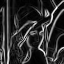
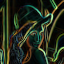
improve filter panel ui

diff --git a/src/main/kotlin/sirgl/graphics/filter/KernelFilter.kt b/src/main/kotlin/sirgl/graphics/filter/KernelFilter.kt
@@ -49,7 +49,7 @@ abstract class MatrixFilter(private val kernelDataObservable: Observable<KernelD
         }
         val maxValue = max(max(normalizationBufferR.max()!!, normalizationBufferG.max()!!), normalizationBufferB.max()!!)
         if (maxValue > 255.0f) {
-            // Probably here we can use norm ratio
+            // TODO Probably here we can use norm ratio
             val normValue = 255.0f / maxValue
             normalize(normValue, normalizationBufferR, normalizationBufferG, normalizationBufferB, extendedWidth, extendedHeight)
         }
@@ -207,66 +207,6 @@ abstract class MatrixFilter(private val kernelDataObservable: Observable<KernelD
             }
         }
     }
-
-    private fun fillInternalImage(
-            extendedWidth: Int,
-            extendedHeight: Int,
-            singleEdgeExt: Int,
-            srcWidth: Int,
-            srcHeight: Int,
-            src: BufferedImage
-    ) {
-        for (y in (0 until extendedHeight)) {
-            for (x in (0 until extendedWidth)) {
-                val inLeftEdge = x in (0 until singleEdgeExt)
-                val inRightEdge = x in (extendedWidth - singleEdgeExt until extendedWidth)
-                val inUpEdge = y in (0 until singleEdgeExt)
-                val inDownEdge = y in (extendedHeight - singleEdgeExt until extendedHeight)
-                var srcX: Int
-                var srcY: Int
-                when {
-                    inLeftEdge && inUpEdge -> {
-                        srcX = 0
-                        srcY = 0
-                    }
-                    inRightEdge && inUpEdge -> {
-                        srcX = srcWidth - 1
-                        srcY = 0
-                    }
-                    inRightEdge && inDownEdge -> {
-                        srcX = srcWidth - 1
-                        srcY = srcHeight - 1
-                    }
-                    inLeftEdge && inDownEdge -> {
-                        srcX = 0
-                        srcY = srcHeight - 1
-                    }
-                    inLeftEdge -> {
-                        srcX = 0
-                        srcY = y - singleEdgeExt
-                    }
-                    inUpEdge -> {
-                        srcX = x - singleEdgeExt
-                        srcY = 0
-                    }
-                    inDownEdge -> {
-                        srcX = x - singleEdgeExt
-                        srcY = srcHeight - 1
-                    }
-                    inRightEdge -> {
-                        srcX = srcWidth - 1
-                        srcY = y - singleEdgeExt
-                    }
-                    else -> {
-                        srcX = x - singleEdgeExt
-                        srcY = y - singleEdgeExt
-                    }
-                }
-                extendedImage.setRGB(x, y, src.getRGB(srcX, srcY))
-            }
-        }
-    }
-
 
 }
 

diff --git a/src/main/kotlin/sirgl/graphics/ui/filter/AppliedFilterList.kt b/src/main/kotlin/sirgl/graphics/ui/filter/AppliedFilterList.kt
@@ -1,0 +1,53 @@
+package sirgl.graphics.ui.filter
+
+import sirgl.graphics.components.vBox
+import sirgl.graphics.filter.FilterModel
+import sirgl.graphics.observable.Observable
+import sirgl.graphics.observable.SimpleObservable
+import java.awt.GridBagConstraints
+import java.awt.GridBagLayout
+import javax.swing.*
+
+sealed class ListEvt
+
+class ClearListEvt : ListEvt()
+class ListElementSelectedEvt(val model: FilterModel) : ListEvt()
+
+class AppliedFilterList(filtersList: Observable<MutableList<FilterModel>>) : JPanel() {
+    val listObservable: Observable<ListEvt> = SimpleObservable<ListEvt>(null)
+    val list = JList<String>()
+    val clearButton = JButton("Clear")
+
+    init {
+        layout = GridBagLayout()
+        val c = GridBagConstraints()
+        c.weightx = 1.0
+        c.weighty = 8.0
+        c.gridx = 0
+        c.gridy = 0
+        c.fill = GridBagConstraints.BOTH
+
+        filtersList.subscribe {
+            val names = it?.map { it.name }?.toTypedArray() ?: emptyArray()
+            list.setListData(names)
+        }
+
+        list.addListSelectionListener {
+            val selectionModel = it.source as JList<String>
+            val index = selectionModel.minSelectionIndex
+            if (index < 0) return@addListSelectionListener
+            val filterList = filtersList.value ?: return@addListSelectionListener
+            val filter = filterList[index]
+            listObservable.value = ListElementSelectedEvt(filter)
+        }
+
+        add(JScrollPane(list), c)
+
+        c.weighty = 1.0
+        c.gridy = 1
+        clearButton.addActionListener {
+            listObservable.value = ClearListEvt()
+        }
+        add(vBox { add(clearButton) }, c)
+    }
+}

diff --git a/src/main/kotlin/sirgl/graphics/ui/filter/FilterPreviewList.kt b/src/main/kotlin/sirgl/graphics/ui/filter/FilterPreviewList.kt
@@ -1,0 +1,41 @@
+package sirgl.graphics.ui.filter
+
+import sirgl.graphics.components.SplitPanel
+import sirgl.graphics.filter.FilterModelFactory
+import sirgl.graphics.observable.Observable
+import sirgl.graphics.observable.SimpleObservable
+import java.awt.Component
+import java.awt.event.MouseAdapter
+import java.awt.event.MouseEvent
+import javax.swing.*
+
+
+class FilterPreviewList(filterModelFactories: List<FilterModelFactory<*>>) : JPanel() {
+    private val list = JList<FilterModelFactory<*>>(filterModelFactories.toTypedArray())
+    val selectedFilter: Observable<FilterModelFactory<*>> = SimpleObservable<FilterModelFactory<*>>(null)
+
+    init {
+        layout = BoxLayout(this, BoxLayout.Y_AXIS)
+        list.cellRenderer = object: ListCellRenderer<FilterModelFactory<*>?> {
+            override fun getListCellRendererComponent(
+                    list: JList<out FilterModelFactory<*>?>,
+                    value: FilterModelFactory<*>?,
+                    index: Int,
+                    isSelected: Boolean,
+                    cellHasFocus: Boolean
+            ): Component {
+                value ?: return JLabel()
+                val label = JLabel(value.icon)
+                return SplitPanel(label, JLabel(value.name), 1.0, 5.0)
+            }
+        }
+        list.addMouseListener(object: MouseAdapter() {
+            override fun mouseClicked(e: MouseEvent) {
+                val index = list.locationToIndex(e.point)
+                val fileModelFactory = list.model.getElementAt(index)
+                selectedFilter.value = fileModelFactory
+            }
+        })
+        add(JScrollPane(list))
+    }
+}

diff --git a/src/main/kotlin/sirgl/graphics/ui/filter/FilterPanel.kt b/src/main/kotlin/sirgl/graphics/ui/filter/FilterPanel.kt
@@ -1,0 +1,47 @@
+package sirgl.graphics.ui.filter
+
+import sirgl.graphics.core.App
+import sirgl.graphics.filter.filterModelFactories
+import java.awt.GridBagConstraints
+import java.awt.GridBagLayout
+import javax.swing.JPanel
+
+
+class FilterPanel(app: App) : JPanel() {
+
+    init {
+        val filtersObservable = app.filtersObservable
+
+        val appliedFilterList = AppliedFilterList(filtersObservable)
+        appliedFilterList.listObservable.subscribe {
+            when (it) {
+                is ClearListEvt -> app.clearFilters()
+                is ListElementSelectedEvt -> app.selectedFilterPanel.value = it.model.panel
+            }
+        }
+
+        val filterPreviewList = FilterPreviewList(filterModelFactories)
+        filterPreviewList.selectedFilter.subscribe {
+            app.addFilter(it?.create(app) ?: return@subscribe)
+        }
+
+        val currentFilterSettingPanel = CurrentFilterSettingPanel(app.selectedFilterPanel)
+
+        layout = GridBagLayout()
+        val c = GridBagConstraints()
+        c.weightx = 1.0
+        c.weighty = 3.0
+        c.gridx = 0
+        c.gridy = 0
+        c.fill = GridBagConstraints.BOTH
+        add(appliedFilterList, c)
+
+        c.gridy = 1
+        c.weighty = 3.0
+        add(filterPreviewList, c)
+
+        c.gridy = 2
+        c.weighty = 3.0
+        add(currentFilterSettingPanel, c)
+    }
+}

diff --git a/src/main/kotlin/sirgl/graphics/ui/filter/CurrentFilterSettingPanel.kt b/src/main/kotlin/sirgl/graphics/ui/filter/CurrentFilterSettingPanel.kt
@@ -1,0 +1,38 @@
+package sirgl.graphics.ui.filter
+
+import sirgl.graphics.observable.Observable
+import sirgl.graphics.ui.Invisible
+import java.awt.Dimension
+import javax.swing.JPanel
+import javax.swing.JScrollPane
+
+class CurrentFilterSettingPanel(selectedFilterPanel: Observable<JPanel>) : JPanel() {
+    private val holder = JPanel()
+    private val scrollPane = JScrollPane(holder)
+
+    init {
+        scrollPane.isVisible = false
+        selectedFilterPanel.subscribe {
+            holder.removeAll()
+            if (it == null) {
+                scrollPane.isVisible = false
+                holder.invalidate()
+                holder.repaint()
+                invalidate()
+                revalidate()
+                repaint()
+                return@subscribe
+            }
+            if (it !is Invisible) {
+                scrollPane.isVisible = true
+            }
+            holder.add(it)
+            holder.invalidate()
+            holder.repaint()
+            invalidate()
+            revalidate()
+            repaint()
+        }
+        add(scrollPane)
+    }
+}

diff --git a/src/main/kotlin/sirgl/graphics/filter/sobel/SobelFilter.kt b/src/main/kotlin/sirgl/graphics/filter/sobel/SobelFilter.kt
@@ -17,13 +17,13 @@ import kotlin.math.absoluteValue
 class SobelFilter : MatrixFilter(kernelDataObservable = SimpleObservable(KernelData(3, 8f))) {
     override fun transformRGB(x: Int, y: Int, img: BufferedImage, rgb: RGB) {
         rgb.r = transformChanel(img, x, y, ChanelType.R)
-        rgb.g = transformChanel(img, x, y, ChanelType.R)
-        rgb.b = transformChanel(img, x, y, ChanelType.R)
+        rgb.g = transformChanel(img, x, y, ChanelType.G)
+        rgb.b = transformChanel(img, x, y, ChanelType.B)
     }
 
     private inline fun transformChanel(img: BufferedImage, x: Int, y: Int, chanelType: ChanelType): Float {
-        val gx = convoluteChanel(xMatrixFlat, 3, img, x, y, chanelType)
-        val gy = convoluteChanel(yMatrixFlat, 3, img, x, y, chanelType)
+        val gx = convolveChanel(xMatrixFlat, 3, img, x, y, chanelType)
+        val gy = convolveChanel(yMatrixFlat, 3, img, x, y, chanelType)
         return Math.sqrt((gx * gx + gy * gy).toDouble()).toFloat()
     }
 }

diff --git a/src/main/kotlin/sirgl/graphics/ui/MainPanel.kt b/src/main/kotlin/sirgl/graphics/ui/MainPanel.kt
@@ -4,6 +4,7 @@ import sirgl.graphics.canvas.Canvas
 import sirgl.graphics.canvas.ScrolledCanvas
 import sirgl.graphics.components.SplitPanel
 import sirgl.graphics.core.App
+import sirgl.graphics.ui.filter.FilterPanel
 import java.awt.Dimension
 import java.awt.GridBagConstraints
 import javax.swing.*
@@ -38,9 +39,7 @@ class MainPanel(val app: App) : JPanel() {
         val pane = JTabbedPane()
         pane.preferredSize = Dimension(250, 550)
         pane.addTab("General", GeneralSettingsPanel(app))
-        val scrollPane = JScrollPane(FilterPanel(app))
-        scrollPane.horizontalScrollBarPolicy = ScrollPaneConstants.HORIZONTAL_SCROLLBAR_NEVER
-        pane.addTab("Filters", scrollPane)
+        pane.addTab("Filters", FilterPanel(app))
         return pane
     }
 }

diff --git a/src/main/kotlin/sirgl/graphics/filter/grayscale/GrayscaleFilterModel.kt b/src/main/kotlin/sirgl/graphics/filter/grayscale/GrayscaleFilterModel.kt
@@ -2,9 +2,9 @@ package sirgl.graphics.filter.grayscale
 
 import sirgl.graphics.filter.FilterModel
 import sirgl.graphics.filter.Presentable
-import javax.swing.JPanel
+import sirgl.graphics.ui.InvisiblePanel
 
 class GrayscaleFilterModel(presentable: Presentable) : FilterModel, Presentable by presentable {
     override val filter = GrayscaleFilter()
-    override val panel = JPanel()
+    override val panel = InvisiblePanel()
 }

diff --git a/src/main/kotlin/sirgl/graphics/filter/sobel/SobelFilterModel.kt b/src/main/kotlin/sirgl/graphics/filter/sobel/SobelFilterModel.kt
@@ -2,9 +2,9 @@ package sirgl.graphics.filter.sobel
 
 import sirgl.graphics.filter.FilterModel
 import sirgl.graphics.filter.Presentable
-import javax.swing.JPanel
+import sirgl.graphics.ui.InvisiblePanel
 
 class SobelFilterModel(presentable: Presentable) : FilterModel, Presentable by presentable {
     override val filter = SobelFilter()
-    override val panel = JPanel()
+    override val panel = InvisiblePanel()
 }

diff --git a/src/main/kotlin/sirgl/graphics/filter/Convolution.kt b/src/main/kotlin/sirgl/graphics/filter/Convolution.kt
@@ -8,9 +8,9 @@ import sirgl.graphics.conversion.getRed
 import java.awt.image.BufferedImage
 
 /**
- * Expects, that [x] and [y] has are far enough from bounds
+ * Expects, that [x] and [y] are far enough from bounds
  */
-inline fun convoluteChanel(
+inline fun convolveChanel(
         matrix: FloatArray,
         kernelSize: Int,
         img: BufferedImage,

diff --git a/src/main/kotlin/sirgl/graphics/ui/InvisiblePanel.kt b/src/main/kotlin/sirgl/graphics/ui/InvisiblePanel.kt
@@ -1,0 +1,5 @@
+package sirgl.graphics.ui
+
+import javax.swing.JPanel
+
+class InvisiblePanel : Invisible, JPanel()

diff --git a/src/main/kotlin/sirgl/graphics/ui/Invisible.kt b/src/main/kotlin/sirgl/graphics/ui/Invisible.kt
@@ -1,0 +1,3 @@
+package sirgl.graphics.ui
+
+interface Invisible
